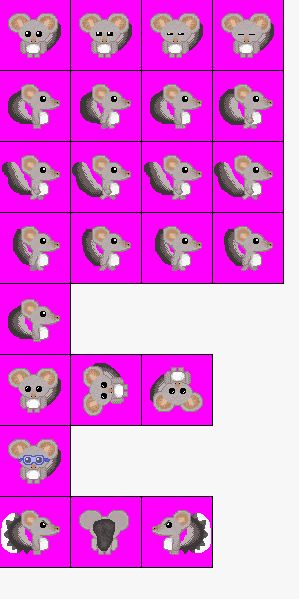
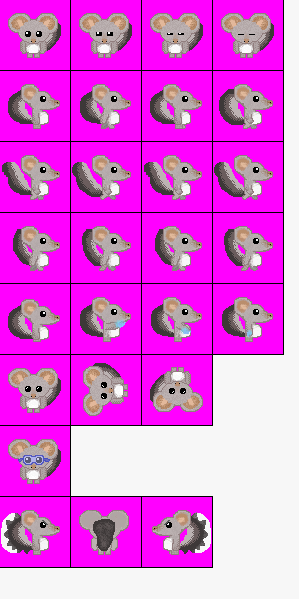
Ice Animation

Changed region(s): [[0.21, 0.45, 0.96, 0.6]]

diff --git a/src/Players/Cat.java b/src/Players/Cat.java
@@ -22,6 +22,7 @@ public class Cat extends Player {
         private static int wCardan = 48;
         private static int hCardan = 48;
         private static int attackDelay = 12;
+        private static int iceDelay = 3;
         private static int idleDelay = 1;
         // private BufferedImage attackOverlay;
 
@@ -80,6 +81,39 @@ public class Cat extends Player {
                     new FrameBuilder(spriteSheet.getSprite(7, 2), attackDelay)
                             .withScale(1)
                             .withImageEffect(ImageEffect.FLIP_HORIZONTAL)
+                            .withBounds(xCardan, yCardan, wCardan, hCardan)
+                            .build()
+            });
+
+                put("ICE_LEFT", new Frame[] {
+                    new FrameBuilder(spriteSheet.getSprite(4, 3), iceDelay)
+                            .withScale(1)
+                            .withImageEffect(ImageEffect.FLIP_HORIZONTAL)
+                            .withBounds(xCardan, yCardan, wCardan, hCardan)
+                            .build(),
+                    new FrameBuilder(spriteSheet.getSprite(4, 2), iceDelay)
+                            .withScale(1)
+                            .withImageEffect(ImageEffect.FLIP_HORIZONTAL)
+                            .withBounds(xCardan, yCardan, wCardan, hCardan)
+                            .build(),
+                    new FrameBuilder(spriteSheet.getSprite(4, 1), iceDelay)
+                            .withScale(1)
+                            .withImageEffect(ImageEffect.FLIP_HORIZONTAL)
+                            .withBounds(xCardan, yCardan, wCardan, hCardan)
+                            .build()
+            });
+
+                                    put("ICE_RIGHT", new Frame[] {
+                    new FrameBuilder(spriteSheet.getSprite(4, 3), iceDelay)
+                            .withScale(1)
+                            .withBounds(xCardan, yCardan, wCardan, hCardan)
+                            .build(),
+                    new FrameBuilder(spriteSheet.getSprite(4, 2), iceDelay)
+                            .withScale(1)
+                            .withBounds(xCardan, yCardan, wCardan, hCardan)
+                            .build(),
+                    new FrameBuilder(spriteSheet.getSprite(4, 1), iceDelay)
+                            .withScale(1)
                             .withBounds(xCardan, yCardan, wCardan, hCardan)
                             .build()
             });

diff --git a/src/Level/Player.java b/src/Level/Player.java
@@ -279,7 +279,7 @@ public abstract class Player extends GameObject {
         playerState = PlayerState.ATTACKING_SPIN;
         spawnHitbox(HitboxState.ATTACKING_SPIN);
             }
-        else if(Keyboard.isKeyDown(ICE_BALL_KEY)){
+        else if(Keyboard.isKeyDown(ICE_BALL_KEY) && hasIceBall){
             playerState = PlayerState.ICE_BALL;
         }
 
@@ -325,7 +325,7 @@ public abstract class Player extends GameObject {
         spawnHitbox(HitboxState.ATTACKING_SPIN);
         }
 
-        else if(Keyboard.isKeyDown(ICE_BALL_KEY)){
+        else if(Keyboard.isKeyDown(ICE_BALL_KEY) && hasIceBall){
             playerState = PlayerState.ICE_BALL;
         }
     }
@@ -351,7 +351,7 @@ public abstract class Player extends GameObject {
         }
 
         //if player is crouched, and hits the ice key, then if they have the powerup it will activate
-        if(Keyboard.isKeyDown(ICE_BALL_KEY)){
+        if(Keyboard.isKeyDown(ICE_BALL_KEY) && hasIceBall){
             playerState = PlayerState.ICE_BALL;
         }
     }
@@ -528,7 +528,7 @@ public abstract class Player extends GameObject {
             playerState = PlayerState.STANDING;
         }
 
-        if(Keyboard.isKeyDown(ICE_BALL_KEY)){
+        if(Keyboard.isKeyDown(ICE_BALL_KEY) && hasIceBall){
             playerState = PlayerState.ICE_BALL;
         }
     }
@@ -642,6 +642,9 @@ public abstract class Player extends GameObject {
             if (currentMapTile != null && currentMapTile.getTileType() == TileType.WATER) {
                 this.currentAnimationName = facingDirection == Direction.RIGHT ? "SWIM_STAND_RIGHT" : "SWIM_STAND_LEFT";
             }
+        } else if (playerState == PlayerState.ICE_BALL) {
+            // sets animation to a ATTACK SPIN animation based on which way player is facing
+            this.currentAnimationName = facingDirection == Direction.RIGHT ? "ICE_RIGHT" : "ICE_LEFT";
         } else if (playerState == PlayerState.ATTACKING_SPIN) {
             // sets animation to a ATTACK SPIN animation based on which way player is facing
             this.currentAnimationName = facingDirection == Direction.RIGHT ? "ATTACK_RIGHT_SPIN" : "ATTACK_LEFT_SPIN";

diff --git a/src/Level/Hitbox.java b/src/Level/Hitbox.java
@@ -5,11 +5,8 @@ import Builders.FrameBuilder;
 import Engine.GraphicsHandler;
 import Engine.ImageLoader;
 import GameObject.Frame;
-import GameObject.GameObject;
 import GameObject.ImageEffect;
 import GameObject.SpriteSheet;
-import Screens.LobbyScreen;
-import Screens.PlayLevelScreen;
 import Utils.Point;
 
 
